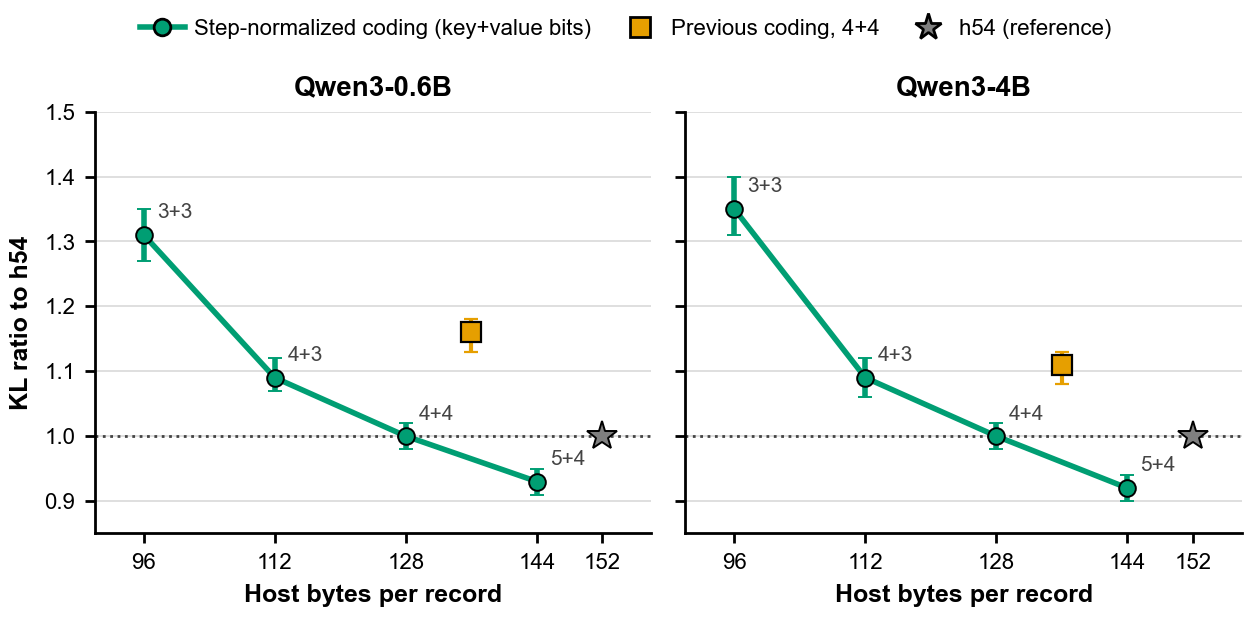
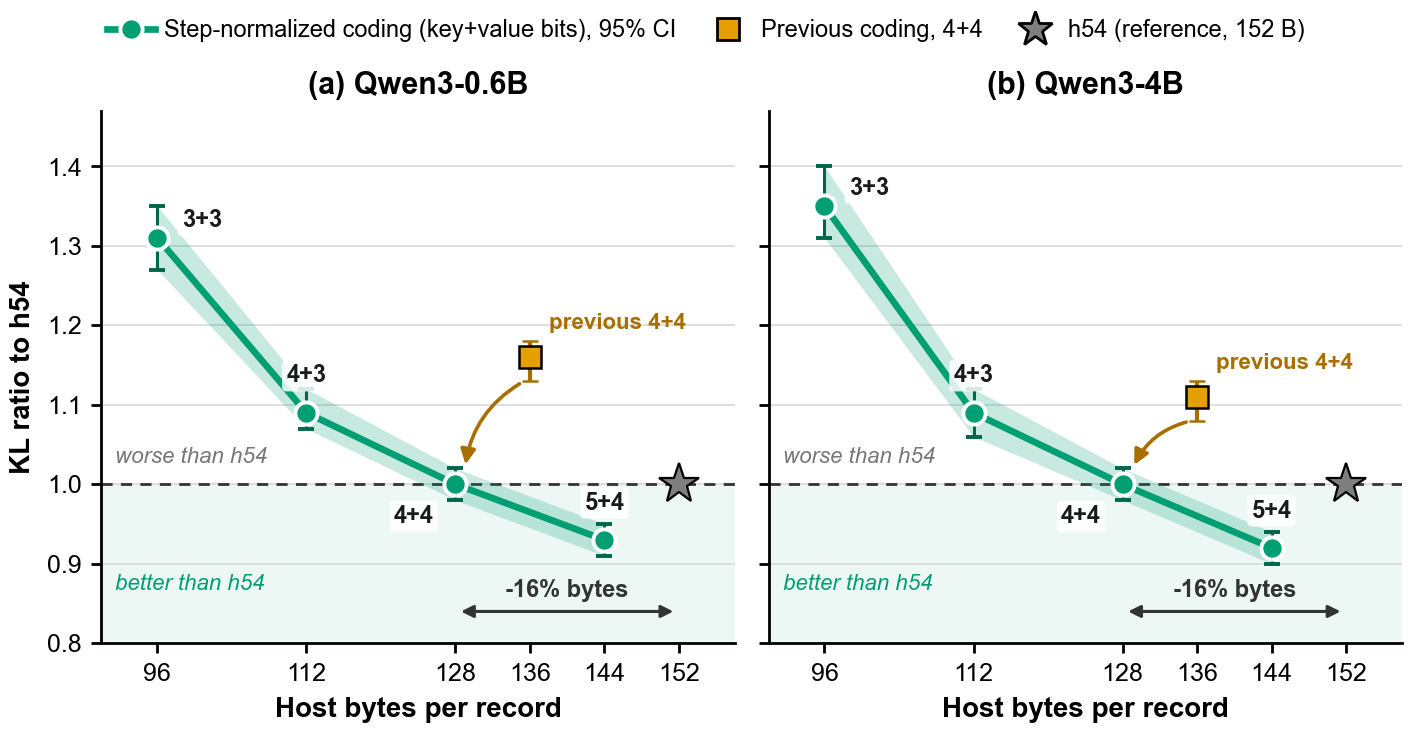
README figures: restyle the residual-coding plot (CI bands, regions, byte-saving and previous-coding annotations)

diff --git a/docs/figures/make_readme_figs.py b/docs/figures/make_readme_figs.py
@@ -226,41 +226,71 @@ def fig_frontier() -> None:
 # --------------------------------------------------------------------------------------
 def fig_residual() -> None:
     models = DATA["fig5"]["models"]
-    fig, axes = plt.subplots(1, 2, figsize=(6.4, 2.9), sharey=True)
+    fig, axes = plt.subplots(1, 2, figsize=(7.2, 3.5), sharey=True)
     split = {"n54": "5+4", "n44": "4+4", "n43": "4+3", "n33": "3+3"}
-    for ax, (mname, d) in zip(axes, models.items()):
+    ref_bytes, ref_kl = 152.0, 1.0  # h54 by definition
+    for ax, tag, (mname, d) in zip(axes, "ab", models.items()):
         ks = ["n33", "n43", "n44", "n54"]
-        xs = [d[k]["bytes_per_record"] for k in ks]
-        ys = [d[k]["ratio_vs_h54"] for k in ks]
-        ax.axhline(1.0, color="#444444", lw=1, ls=":", zorder=1)
-        ax.errorbar(xs, ys, yerr=[[d[k]["ratio_vs_h54"] - d[k]["lo"] for k in ks],
-                                  [d[k]["hi"] - d[k]["ratio_vs_h54"] for k in ks]],
-                    color=GREEN, marker="o", lw=2, ms=6, mec="black", mew=0.7, capsize=2.5, zorder=4)
-        for k in ks:
-            ax.annotate(split[k], (d[k]["bytes_per_record"], d[k]["ratio_vs_h54"]),
-                        textcoords="offset points", xytext=(11, 6), ha="center", fontsize=7.5,
-                        color="#444444")
+        xs = np.array([d[k]["bytes_per_record"] for k in ks])
+        ys = np.array([d[k]["ratio_vs_h54"] for k in ks])
+        lo = np.array([d[k]["lo"] for k in ks])
+        hi = np.array([d[k]["hi"] for k in ks])
+        # better / worse than h54 regions
+        ax.axhspan(0.80, ref_kl, color=GREEN, alpha=0.07, lw=0, zorder=0)
+        ax.axhline(ref_kl, color="#333333", lw=1.0, ls=(0, (4, 3)), zorder=1)
+        ax.text(91.5, 0.875, "better than h54", fontsize=8, color=GREEN, style="italic", va="center")
+        ax.text(91.5, 1.035, "worse than h54", fontsize=8, color="#777777", style="italic", va="center")
+        # measured curve with its 95% CI band
+        ax.fill_between(xs, lo, hi, color=GREEN, alpha=0.22, lw=0, zorder=2)
+        ax.errorbar(xs, ys, yerr=[ys - lo, hi - ys], color=GREEN, lw=2.4, marker="o", ms=8,
+                    mfc=GREEN, mec="white", mew=1.4, ecolor="#00664a", elinewidth=1.1, capsize=3,
+                    zorder=4)
+        for k, x, y in zip(ks, xs, ys):
+            ax.annotate(split[k], (x, y), textcoords="offset points",
+                        xytext={"n33": (16, 4), "n44": (-15, -14)}.get(k, (0, 11)),
+                        ha="center", fontsize=8.5,
+                        fontweight="bold", color="#1a1a1a",
+                        bbox=dict(boxstyle="round,pad=0.18", fc="white", ec="none", alpha=0.85),
+                        zorder=6)
+        # previous coding at the same bit split, and the step-normalized replacement
         o = d["h44"]
         ax.errorbar([o["bytes_per_record"]], [o["ratio_vs_h54"]],
                     yerr=[[o["ratio_vs_h54"] - o["lo"]], [o["hi"] - o["ratio_vs_h54"]]],
-                    color=ORANGE, marker="s", ms=7, mec="black", mew=0.8, capsize=2.5, ls="none",
-                    zorder=5)
-        ax.plot([152], [1.0], marker="*", color=GRAY, ms=11, mec="black", mew=0.7, ls="none", zorder=5)
-        ax.set_title(mname)
-        ax.set_xlabel("Host bytes per record")
-        ax.set_xticks([96, 112, 128, 144, 152])
+                    color=ORANGE, marker="s", ms=8, mec="black", mew=0.9, ecolor="#a86f00",
+                    capsize=3, ls="none", zorder=5)
+        n44 = d["n44"]
+        ax.annotate("", xy=(n44["bytes_per_record"] + 1.0, n44["ratio_vs_h54"] + 0.018),
+                    xytext=(o["bytes_per_record"] - 0.6, o["ratio_vs_h54"] - 0.03),
+                    arrowprops=dict(arrowstyle="-|>", color="#a86f00", lw=1.3,
+                                    connectionstyle="arc3,rad=0.25", mutation_scale=11), zorder=5)
+        ax.text(o["bytes_per_record"] + 2.0, o["ratio_vs_h54"] + 0.035, "previous 4+4",
+                fontsize=8, color="#a86f00", ha="left", fontweight="bold")
+        # bytes saved at equal KL: 4+4 vs h54
+        ax.plot([ref_bytes], [ref_kl], marker="*", color=GRAY, ms=15, mec="black", mew=0.8,
+                ls="none", zorder=6)
+        yb = 0.84
+        ax.annotate("", xy=(n44["bytes_per_record"], yb), xytext=(ref_bytes, yb),
+                    arrowprops=dict(arrowstyle="<|-|>", color="#333333", lw=1.1,
+                                    mutation_scale=9))
+        pct = 100 * (n44["bytes_per_record"] - ref_bytes) / ref_bytes
+        ax.text((n44["bytes_per_record"] + ref_bytes) / 2, yb + 0.018, f"{pct:.0f}% bytes",
+                ha="center", fontsize=8.5, fontweight="bold", color="#333333")
+        ax.set_title(f"({tag}) {mname}", fontsize=11)
+        ax.set_xlabel("Host bytes per record", fontsize=10)
+        ax.set_xticks([96, 112, 128, 136, 144, 152])
+        ax.tick_params(labelsize=9)
         ax.set_xlim(90, 158)
-        ax.set_ylim(0.85, 1.5)
+        ax.set_ylim(0.80, 1.47)
         ax.grid(axis="x", visible=False)
-    axes[0].set_ylabel("KL ratio to h54")
-    handles = [Line2D([], [], color=GREEN, marker="o", lw=2, ms=6, mec="black",
-                      label="Step-normalized coding (key+value bits)"),
-               Line2D([], [], color=ORANGE, marker="s", ms=7, mec="black", ls="none",
+    axes[0].set_ylabel("KL ratio to h54", fontsize=10)
+    handles = [Line2D([], [], color=GREEN, marker="o", lw=2.4, ms=8, mec="white", mew=1.4,
+                      label="Step-normalized coding (key+value bits), 95% CI"),
+               Line2D([], [], color=ORANGE, marker="s", ms=8, mec="black", ls="none",
                       label="Previous coding, 4+4"),
-               Line2D([], [], color=GRAY, marker="*", ms=10, mec="black", ls="none",
-                      label="h54 (reference)")]
-    fig.legend(handles=handles, loc="upper center", ncol=3, bbox_to_anchor=(0.5, 1.09),
-               columnspacing=1.2, handletextpad=0.4)
+               Line2D([], [], color=GRAY, marker="*", ms=13, mec="black", ls="none",
+                      label="h54 (reference, 152 B)")]
+    fig.legend(handles=handles, loc="upper center", ncol=3, bbox_to_anchor=(0.5, 1.07),
+               columnspacing=1.2, handletextpad=0.4, fontsize=8.5)
     fig.tight_layout()
     _save(fig, "fig_residual_coding.png")
 
